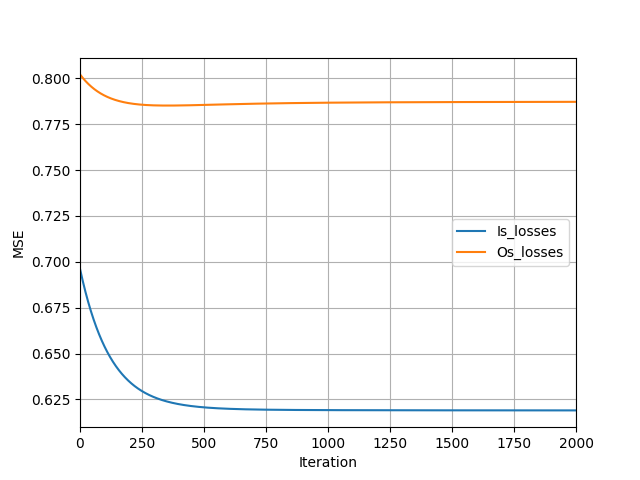
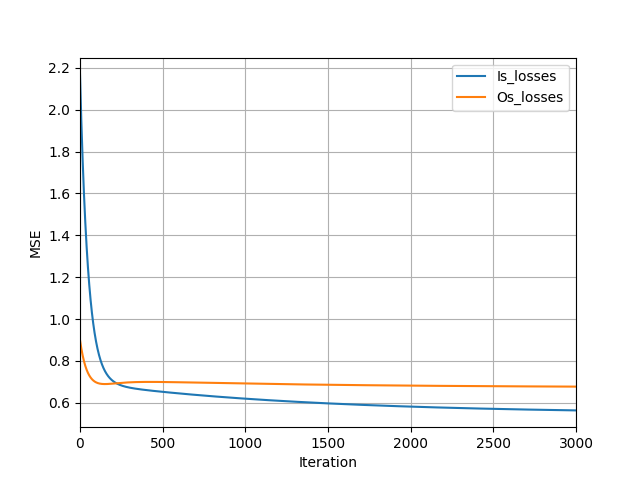
periodic update

diff --git a/RSTrainingExample.py b/RSTrainingExample.py
@@ -57,6 +57,7 @@ def train_model_with_regularization(rs_model, regularization_parameter, training
     rs_model_out_of_sample_loss = []
     optimizer = optim.SGD(rs_model.parameters(),lr = learning_rate)
 
+
     while counter < nIters:
         #We compute the in-sample cost and compute gradients (train) accordingly...
         rs_model.zero_grad()
@@ -149,7 +150,7 @@ if __name__ == "__main__":
     absolute_path = os.path.dirname(os.path.abspath(__file__))
     print(os.chdir(absolute_path)) #Now we are guaranteed to be in the /operatornetworks  dir
     # 1. We load the raw data from the database and specify the experimental setup in terms of movies and users
-    df_movies, df_interactions = movieDataExample.raw_data_loader(ubound_popular_movies=200, ubound_popular_users=100)
+    df_movies, df_interactions = movieDataExample.raw_data_loader(ubound_popular_movies=200, ubound_popular_users=300)
     DC = recommendClasses.DataCoreClass(
         df_items = df_movies,
         df_interactions= df_interactions,
@@ -160,7 +161,7 @@ if __name__ == "__main__":
         rating_upper_bound = 5.0
     )
     #We split the data into disjoint sets for training and testing
-    DC_train, DC_test = DC.train_test_split_datacores(percentage_of_data_for_training = 0.6)
+    DC_train, DC_test = DC.train_test_split_datacores(percentage_of_data_for_training = 0.8)
 
     #We call our recommendation systems class and give it access to the training data only, 
     #and testing data only respectively
@@ -187,7 +188,7 @@ if __name__ == "__main__":
 
     #Next we look at the shift operators obtained from collaborative filtering:
     make_correlations_plot(RS = RS, figure_name= "C1_Correlations_matrix")
-    full_operator_tuple = make_nbs_shift_operator_plots(RS=RS, desired_k_most_correlated_nbs_list=[2,3,4],figures_path=figures_path,vmin = 0.0,vmax = 1.0)
+    full_operator_tuple = make_nbs_shift_operator_plots(RS=RS, desired_k_most_correlated_nbs_list=[10,15,20],figures_path=figures_path,vmin = 0.0,vmax = 1.0)
 
 
     #*********E X A M P L E S ************************************************************************
@@ -222,14 +223,18 @@ if __name__ == "__main__":
 
     #Example 1: GNN
     #Next we build our operator network and evaluate it in the operators we have constructed, allowing a slightly higher degree
-    M = archit.MonomialWordSupport(num_variables = 1, allowed_support = 2)#we SET SUPPORT
-    operator_tuple = (full_operator_tuple[0],) #The full operator tuple was defined above
+    M = archit.MonomialWordSupport(num_variables = 1, allowed_support = 6)#we SET SUPPORT
+    #operator_tuple = (full_operator_tuple[0],) #The full operator tuple was defined above
+    operator_tuple = (full_operator_tuple[2],) #The full operator tuple was defined above,later diffuses more slowlyso it is harder to beat
     M.evaluate_at_operator_tuple(operator_tuple = operator_tuple)
     #Using M we now define our operator network
     #With the monomial support we can build the basic layer,
     #EXAMPLE 1: given partial ratings for a movie produce remaining ratings
-    GNN_filter_layer = archit.OperatorFilterLayer(num_features_in = 1, num_features_out = 1, monomial_word_support = M)
-    #
+    #parameters of the model
+    num_features_in = 1
+    num_features_out = 1
+    monomial_word_support = M
+    #training and testing data
     X, Y, Z = RS.produce_input_output_pair_tensors(
         itemIdxs_input_list=P_movies_idx, 
         itemIdxs_output_list=P_movies_idx,
@@ -243,8 +248,10 @@ if __name__ == "__main__":
         num_samples = 2)
 
 
-    nIters = 2000 #we use the same number of iterations for all models
+    nIters = 3000 #we use the same number of iterations for all models
+    #Now onto the actual computation...
     result_row = dict([("model_name","GNN_reg_0.0")])
+    GNN_filter_layer = archit.OperatorFilterLayer(num_features_in = num_features_in, num_features_out = num_features_out, monomial_word_support = monomial_word_support)
     train_model_with_regularization(
         rs_model = GNN_filter_layer,
         regularization_parameter = 0.0,
@@ -255,10 +262,12 @@ if __name__ == "__main__":
         learning_rate=0.005)
     results_array.append(result_row)
 
-    result_row = dict([("model_name","GNN_reg_0.25")])
+
+    result_row = dict([("model_name","GNN_reg_0.12")])
+    GNN_filter_layer = archit.OperatorFilterLayer(num_features_in = num_features_in, num_features_out = num_features_out, monomial_word_support = monomial_word_support)
     train_model_with_regularization(
         rs_model = GNN_filter_layer,
-        regularization_parameter = 0.25,
+        regularization_parameter = 0.12,
         training_data_triple = [X,Y,Z],
         nIters = nIters,
         testing_data_triple = [Xtest,Ytest,Ztest],
@@ -268,6 +277,7 @@ if __name__ == "__main__":
 
 
     result_row = dict([("model_name","GNN_reg_0.5")])
+    GNN_filter_layer = archit.OperatorFilterLayer(num_features_in = num_features_in, num_features_out = num_features_out, monomial_word_support = monomial_word_support)
     train_model_with_regularization(
         rs_model = GNN_filter_layer,
         regularization_parameter = 0.5,
@@ -284,13 +294,17 @@ if __name__ == "__main__":
     #Next we build our operator network and evaluate it in the operators we have constructed, allowing a slightly higher degree
     M = archit.MonomialWordSupport(num_variables = 2, allowed_support = 2)#we SET SUPPORT
     operator_tuple = (full_operator_tuple[0],full_operator_tuple[2]) #The full operator tuple was defined above
+    #operator_tuple = (full_operator_tuple[0],full_operator_tuple[1],full_operator_tuple[2])
     M.evaluate_at_operator_tuple(operator_tuple = operator_tuple)
     #Using M we now define our operator network
     #With the monomial support we can build the basic layer,
-    ONN_filter_layer = archit.OperatorFilterLayer(num_features_in = 1, num_features_out = 1, monomial_word_support = M)
-
-    nIters = 2000 #we use the same number of iterations for all 2ONN models
+    num_features_in = 1
+    num_features_out = 1
+    monomial_word_support = M
+    
+    #nIters = nIters #we use the same number of iterations for all 2ONN models
     result_row = dict([("model_name","2ONN_reg_0.0")])
+    ONN_filter_layer = archit.OperatorFilterLayer(num_features_in=num_features_in, num_features_out=num_features_out,monomial_word_support=monomial_word_support)
     train_model_with_regularization(
         rs_model = ONN_filter_layer,
         regularization_parameter = 0.0,
@@ -302,10 +316,11 @@ if __name__ == "__main__":
 
     results_array.append(result_row)
 
-    result_row = dict([("model_name","2ONN_reg_0.25")])
+    result_row = dict([("model_name","2ONN_reg_0.125")])
+    ONN_filter_layer = archit.OperatorFilterLayer(num_features_in=num_features_in, num_features_out=num_features_out,monomial_word_support=monomial_word_support)
     train_model_with_regularization(
         rs_model = ONN_filter_layer,
-        regularization_parameter = 0.25,
+        regularization_parameter = 0.125,
         training_data_triple = [X,Y,Z],
         nIters = nIters,
         testing_data_triple = [Xtest,Ytest,Ztest],
